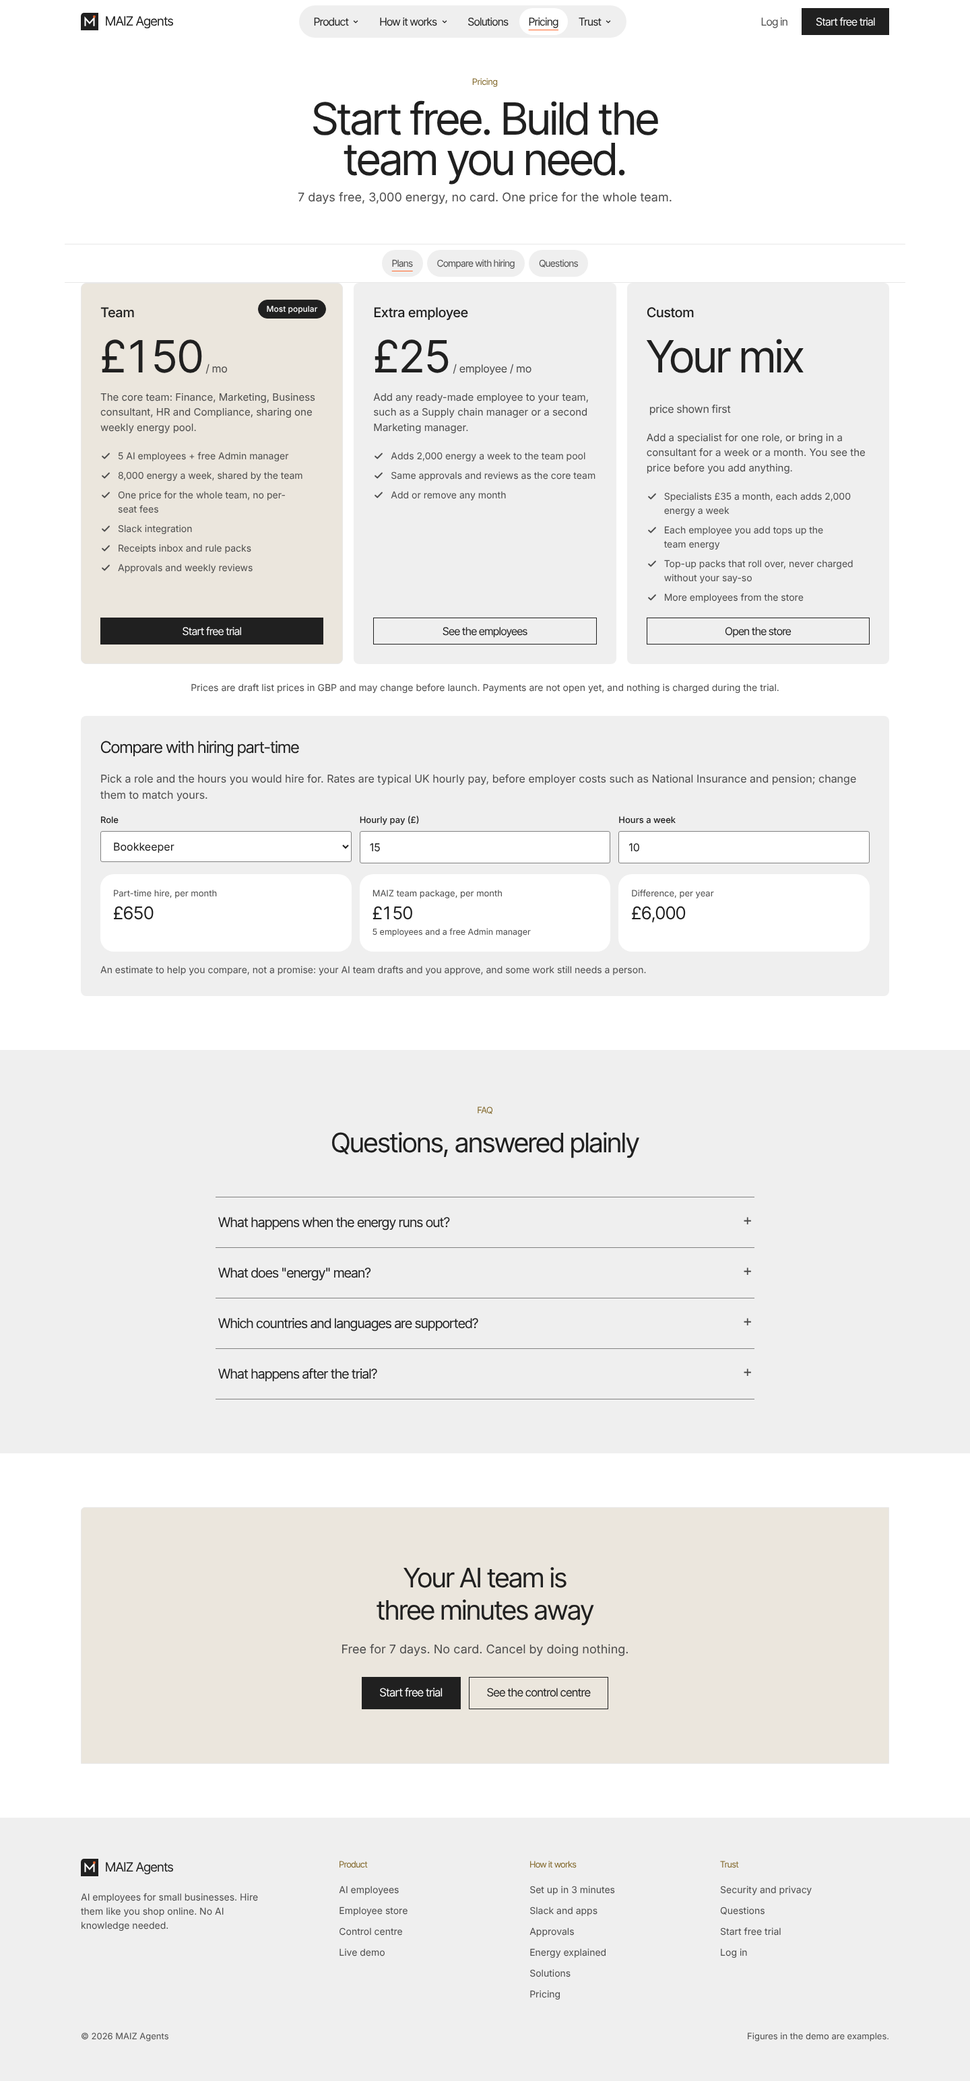
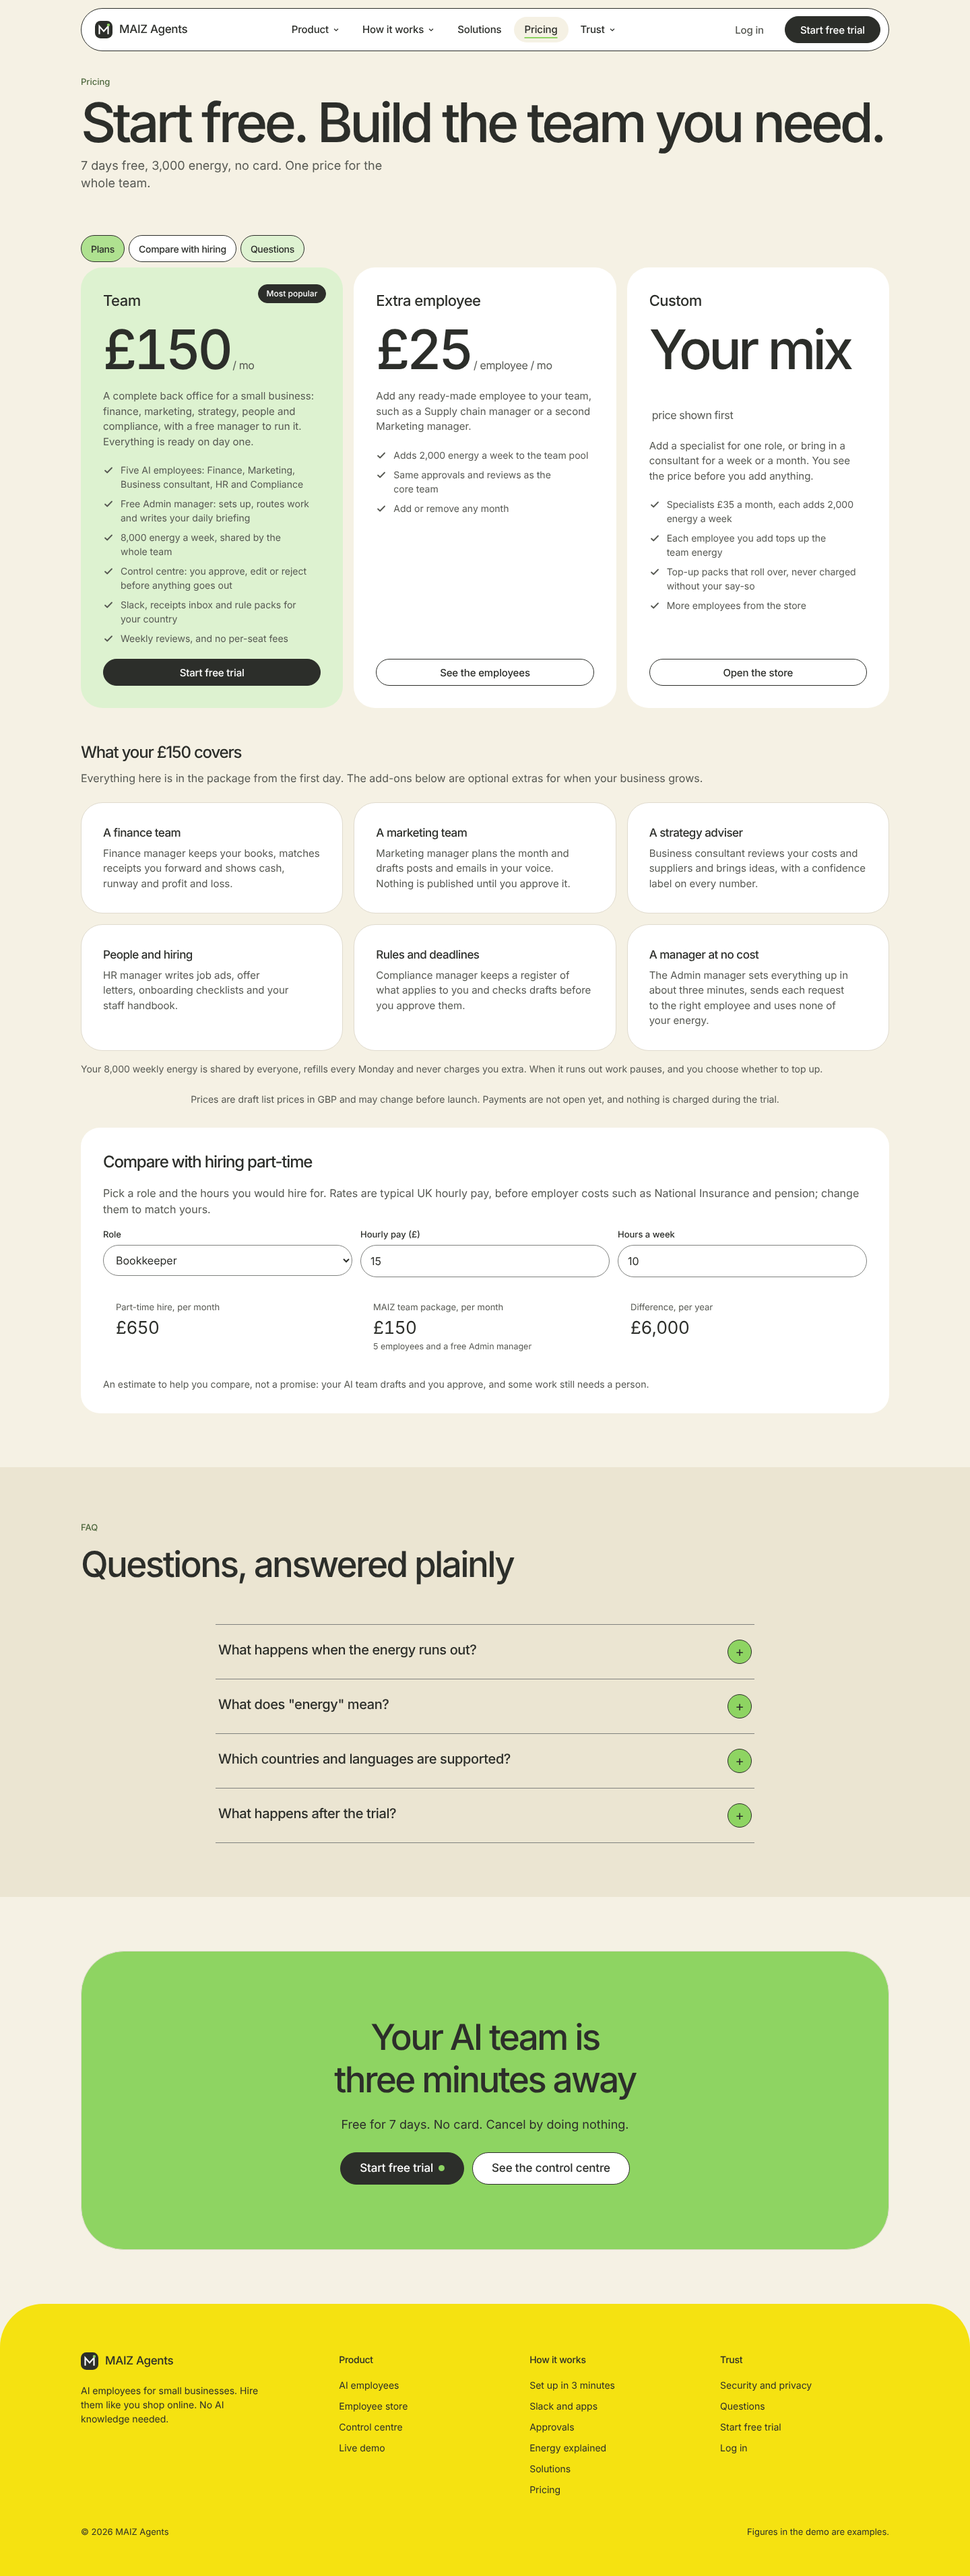
docs: record MindMarket direction and evidence
Claude-Session: https://claude.ai/code/session_01DQV5cfsvxaupS1aeSXDWnn

diff --git a/CLAUDE.md b/CLAUDE.md
@@ -14,7 +14,7 @@ This repo follows the ECC harness. Skills, agents and rules are pinned in `.clau
 
 ## Website rules
 
-- Direction: light editorial "warm paper, one orange ember" (chosen by the owner on 2026-11-11, replacing the dark aurora style). Tokens live at the top of `web/src/styles.css` (the owner's palette verbatim plus a small semantic layer: `--text-2`, `--text-muted`, `--accent-text`, `--line`, `--line-strong`); use them, do not add new colours ad hoc. Orange (`--accent`) is never text or a button fill; Brass is the readable accent. Square buttons, asymmetric feature cards, 20px data cards, pill nav, no shadows.
+- Direction: "warm storybook on cream paper" (MindMarket style reference, chosen by the owner on 2026-11-12, replacing the light editorial Ember style of 2026-11-11). Tokens live at the top of `web/src/styles.css`: Cream Paper canvas, white pill nav and cards, Ink text, Fresh Grass as the one decorative accent, Coral for service-level buttons, Sunshine for the footer, Inter only (huge sizes, tight tracking), 50px pills and 32 to 64px radii, no shadows or gradients. Old token names are kept and remapped. Fresh Grass (and Coral, Sky, Sunshine) are never body text; use `--accent-text` (dark grass) for readable accent text. Avatars are original flat paper-cut characters (inline SVG data URIs in `styles.css`, scene in `web/index.html`); do not add stock or copied art.
 - Before UI work, read `frontend-design-direction` and `rules/ecc/web/design-quality.md`. Polish with `make-interfaces-feel-better` (no `transition: all`, tabular numbers for figures, 40px+ hit areas).
 - Accessibility: WCAG 2.2 AA (`accessibility`, `frontend-a11y`). One `main` landmark per page, all content inside landmarks, visible focus, 4.5:1 text contrast.
 - SEO (`seo`): one H1, titles about 50 to 60 characters, honest meta descriptions, JSON-LD that matches visible content. App and onboarding pages are `noindex`.
